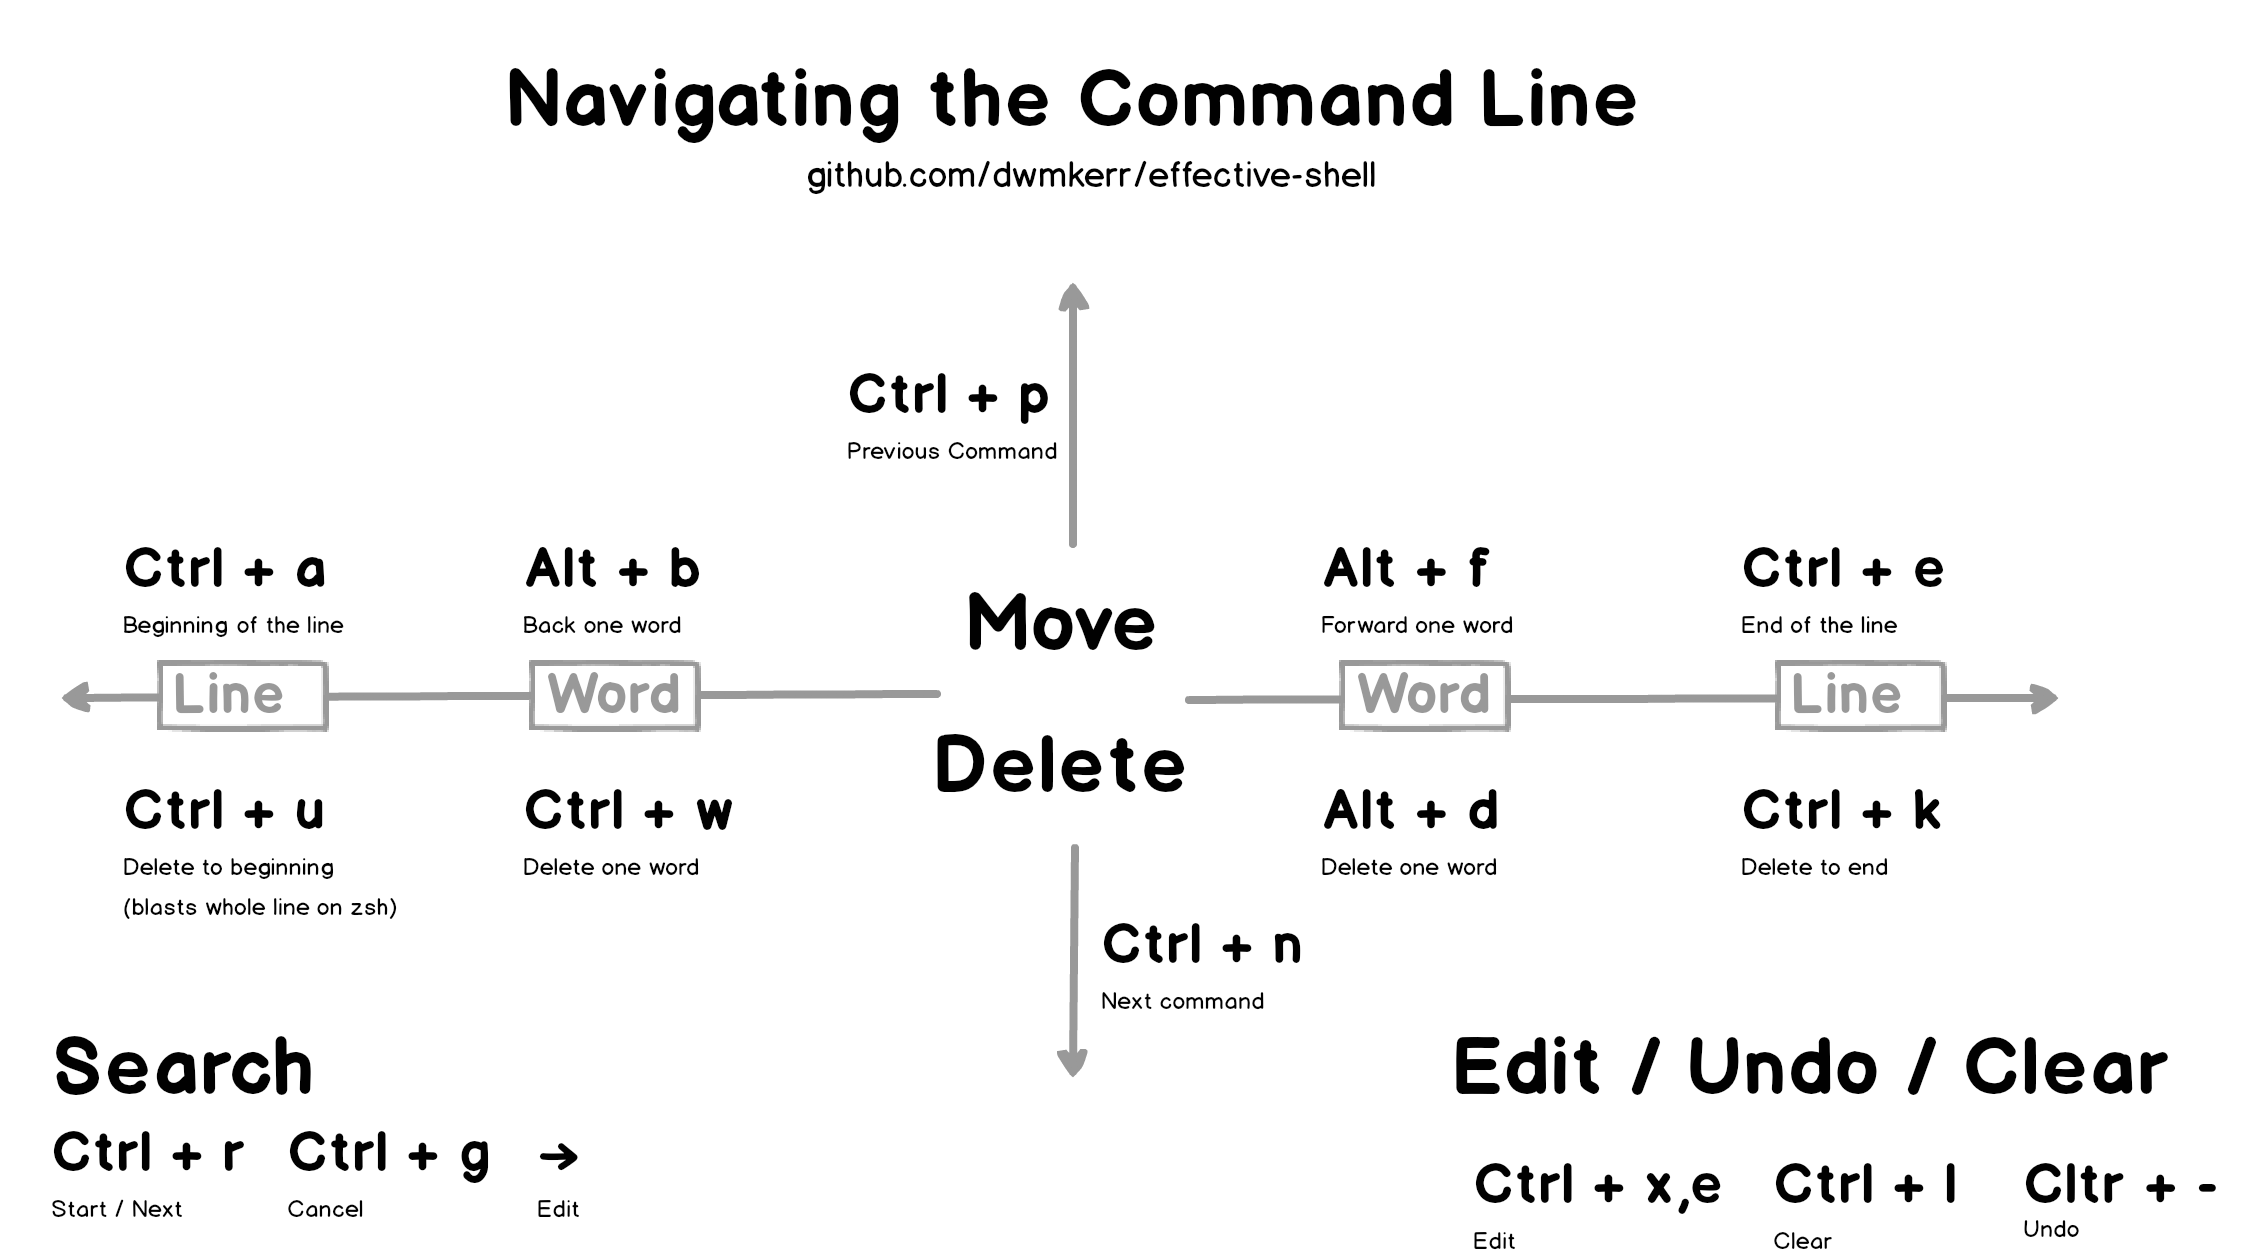
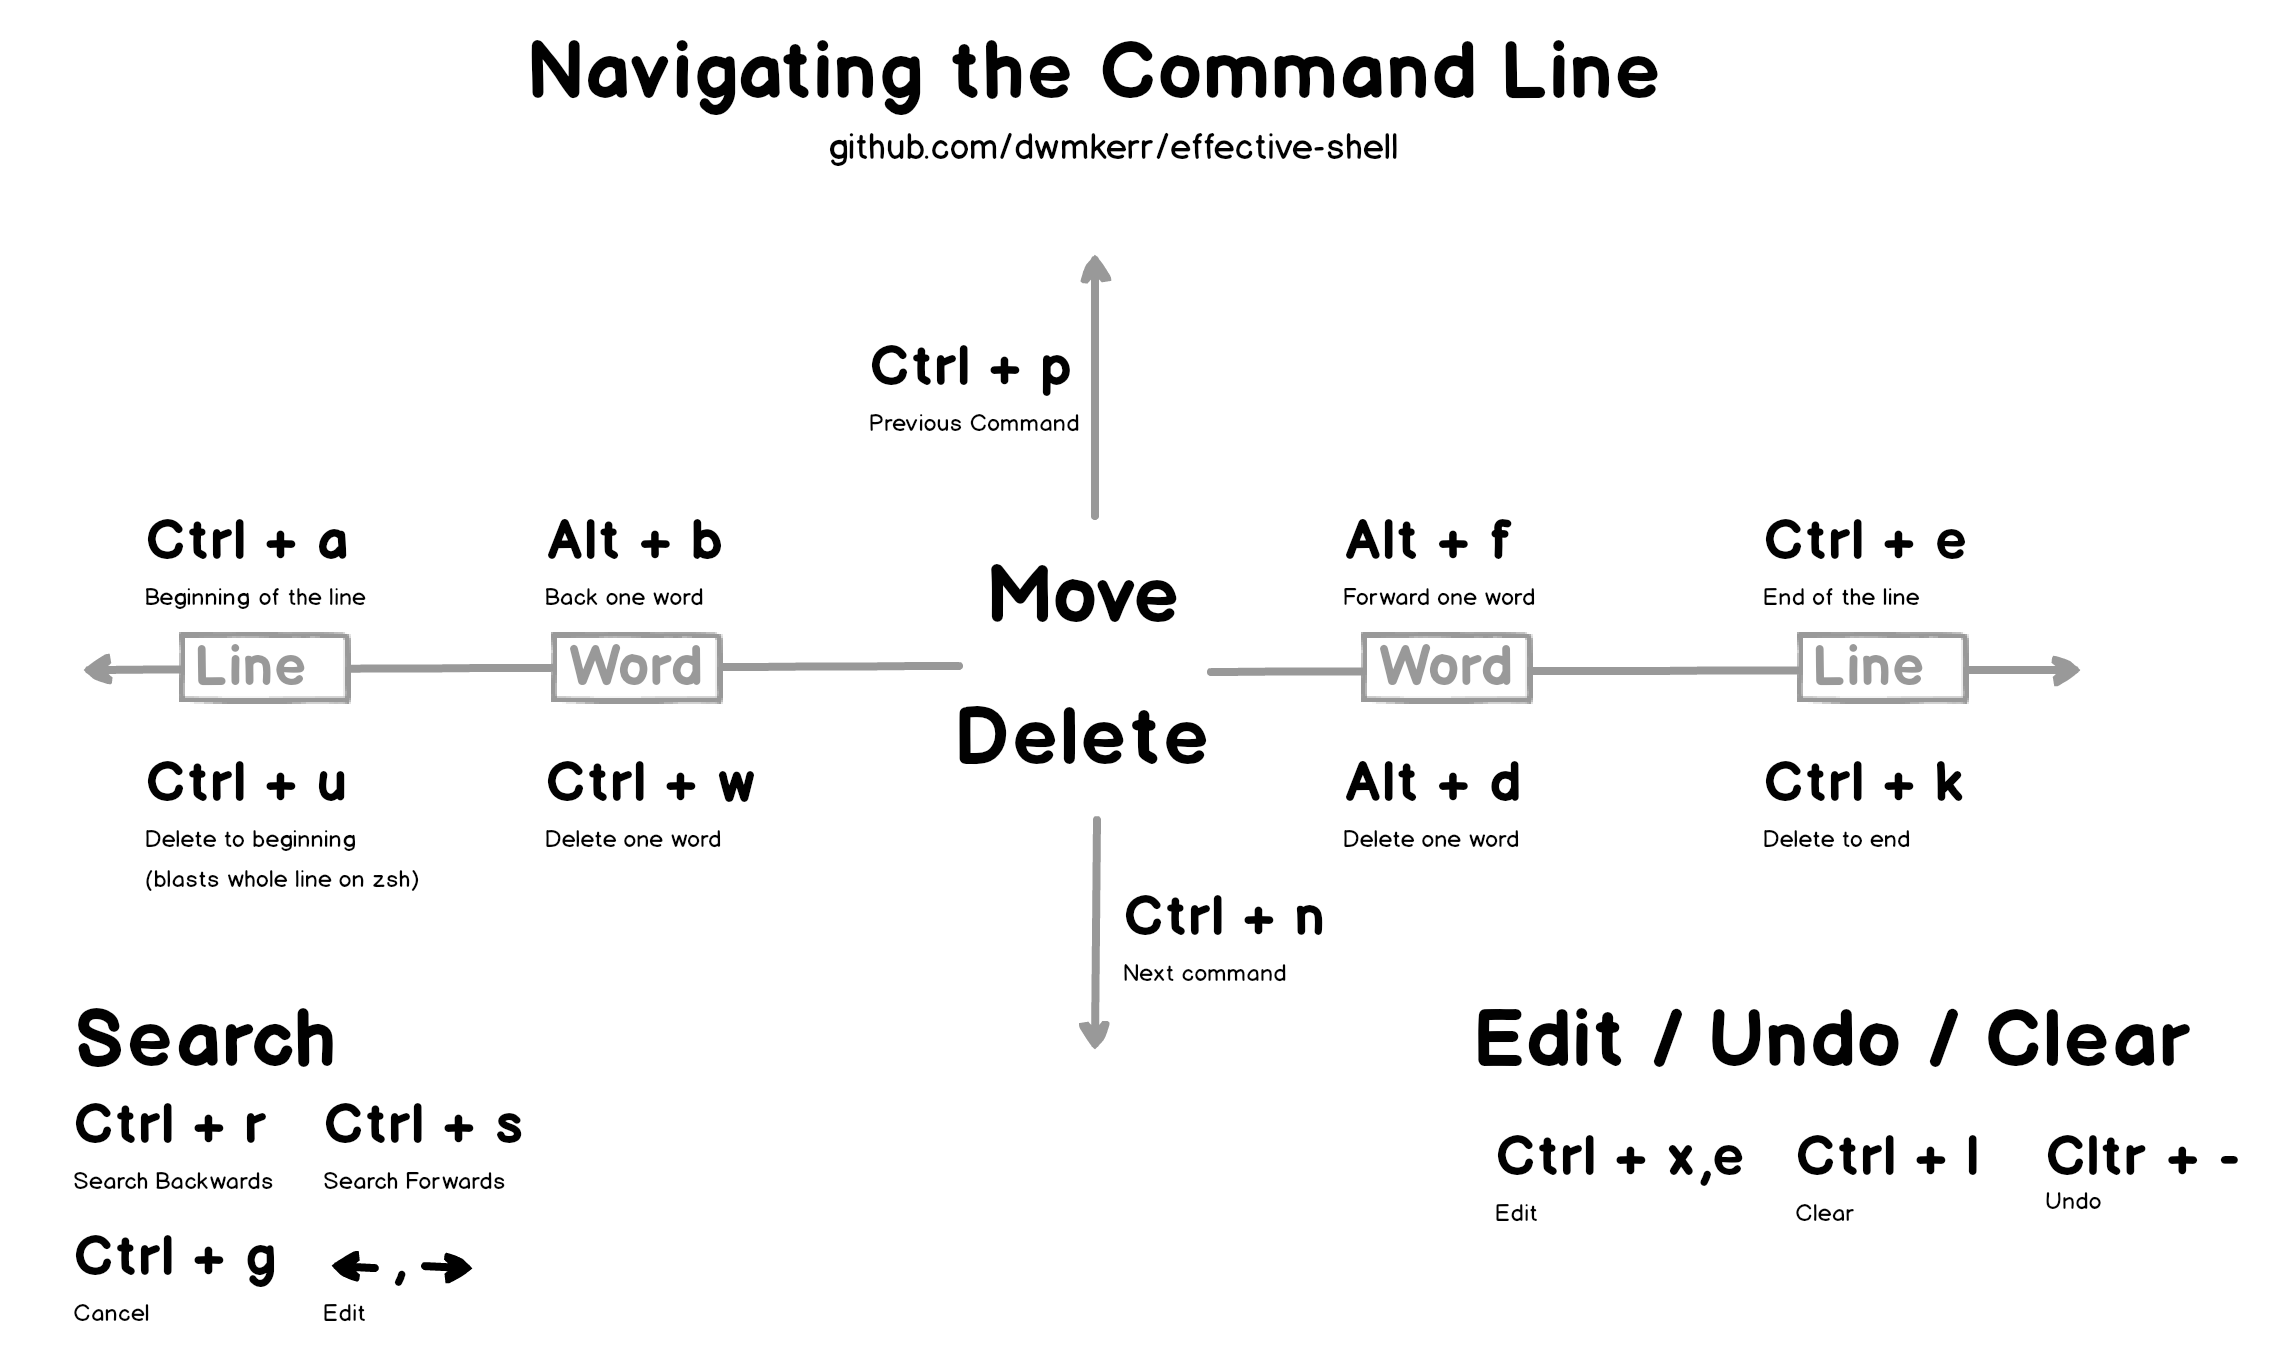
improved the section on searching

diff --git a/1-navigating-the-command-line/navigating-the-command-line.md b/1-navigating-the-command-line/navigating-the-command-line.md
@@ -2,7 +2,7 @@
 
 This is the [first part of a series](https://github.com/dwmkerr/effective-shell) I writing which contains practical tips for using the shell more effectively.
 
-I can't think of a better place to start than *navigating the command line*. As you start to do more and more in the shell, text in the command line can quickly become hard to handle. In this article I'll show some simple tricks for working with the command line more effectively. 
+I can't think of a better place to start than *navigating the command line*. As you start to do more and more in the shell, text in the command line can quickly become hard to handle. In this article I'll show some simple tricks for working with the command line more effectively.
 
 Here's a quick reference diagram, the rest of the article goes into the details!
 
@@ -13,7 +13,7 @@ This article, examples and diagrams are available at [github.com/dwmkerr/effecti
 <!-- TOC depthFrom:2 depthTo:3 withLinks:1 updateOnSave:1 orderedList:0 -->
 
 - [Basic Navigation](#basic-navigation)
-- [Searching for Commands](#searching-for-commands)
+- [Searching](#searching)
 - [Editing In-Place](#editing-in-place)
 - [Clear the Screen](#clear-the-screen)
 - [Pro Tip: Transposing!](#pro-tip-transposing)
@@ -40,19 +40,34 @@ Navigating around long lines of text is a slow process if you are only relying o
 | Delete next word                        | `Alt + d`               | ![delete next word](images/delete-next-word.gif)       |
 | Delete all the way to the beginning[^1] | `Ctrl + u`              | ![delete to beginning](images/delete-to-beginning.gif) |
 | Delete all the way to the end           | `Ctrl + k`              | ![delete to end](images/delete-to-end.gif)             |
-## Searching for Commands
 
-Another indispensable command is the 'Search History' command, invoked with `Ctrl + R`:
+## Searching
 
-![Search History](images/search-history.gif)
+Once you have the basic navigation commands down, the next essential is searching. Let's assume we've run the following three commands:
 
-As you type, your command history is searched, the most recent commands coming first. Use the following shortcuts to complete the operation:
+```bash
+$ command1 param1 param2 param3
+$ command2 param4 param5 param6
+$ command3 param7 param8 param9
+```
+
+You can search backwards or forwards with `Ctrl + r` and `Ctrl + s`. This will search in the current command and then iteratively through previous commands:
+
+![search backwards and forwards](images/search-backwards-and-forwards.gif)
+
+This is useful for searching in the current command, but can be also used to quickly search backwards and forwards through the command history:
+
+![search commands backwards and forwards](images/search-commands-backwards-and-forwards.gif)
+
+As you type, your command history is searched, the most recent commands coming first. Use the arrow keys to edit the command, press enter to execute it, or `Ctrl + g` to cancel the search.
+
+Here are the same commands applied to the original example:
 
 | Action                  | Shortcut      | Example                                                |
 |-------------------------|---------------|--------------------------------------------------------|
-| Find the next occurrence | `Ctrl + r`    | ![find next occurrence](images/search-history-next.gif) |
+| Search backwards / forewards | `Ctrl + r` / `Ctrl + s`   | ![find next occurrence](images/search-history-next.gif) |
 | Run the command         | `Enter`       | ![execute](images/search-history-execute.gif)          |
-| Edit the command        | `Right Arrow` | ![edit command](images/search-history-edit.gif)        |
+| Edit the command        | `Right Arrow` / `Left Arrow` | ![edit command](images/search-history-edit.gif)        |
 | Stop searching          | `Ctrl + g`    | ![cancel search](images/search-history-cancel.gif)     |
 
 ## Editing In-Place
